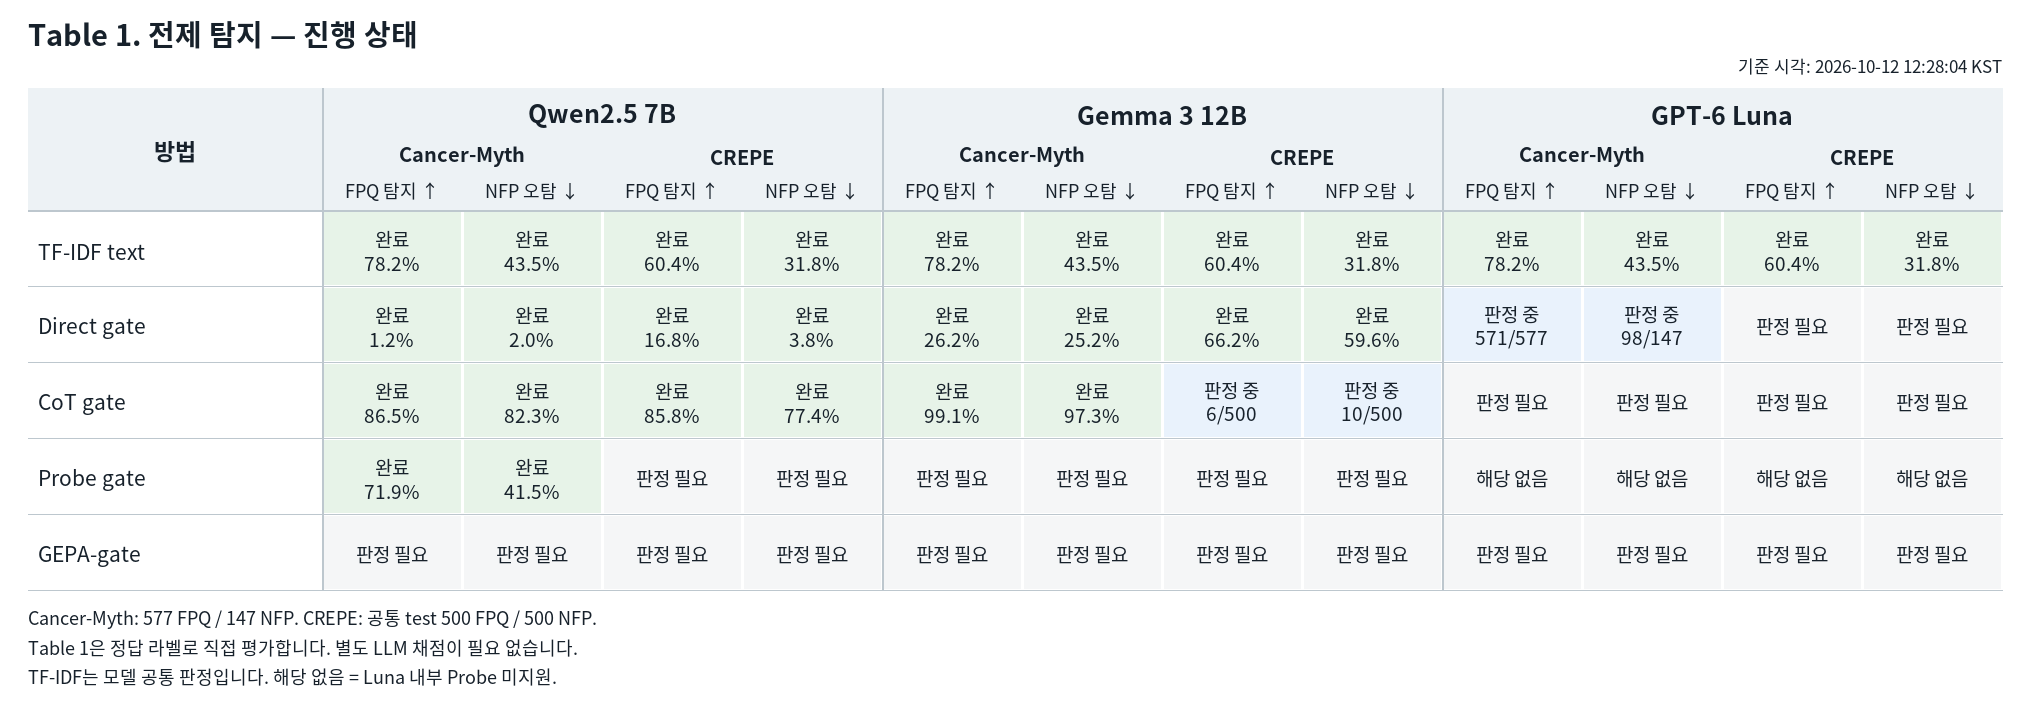
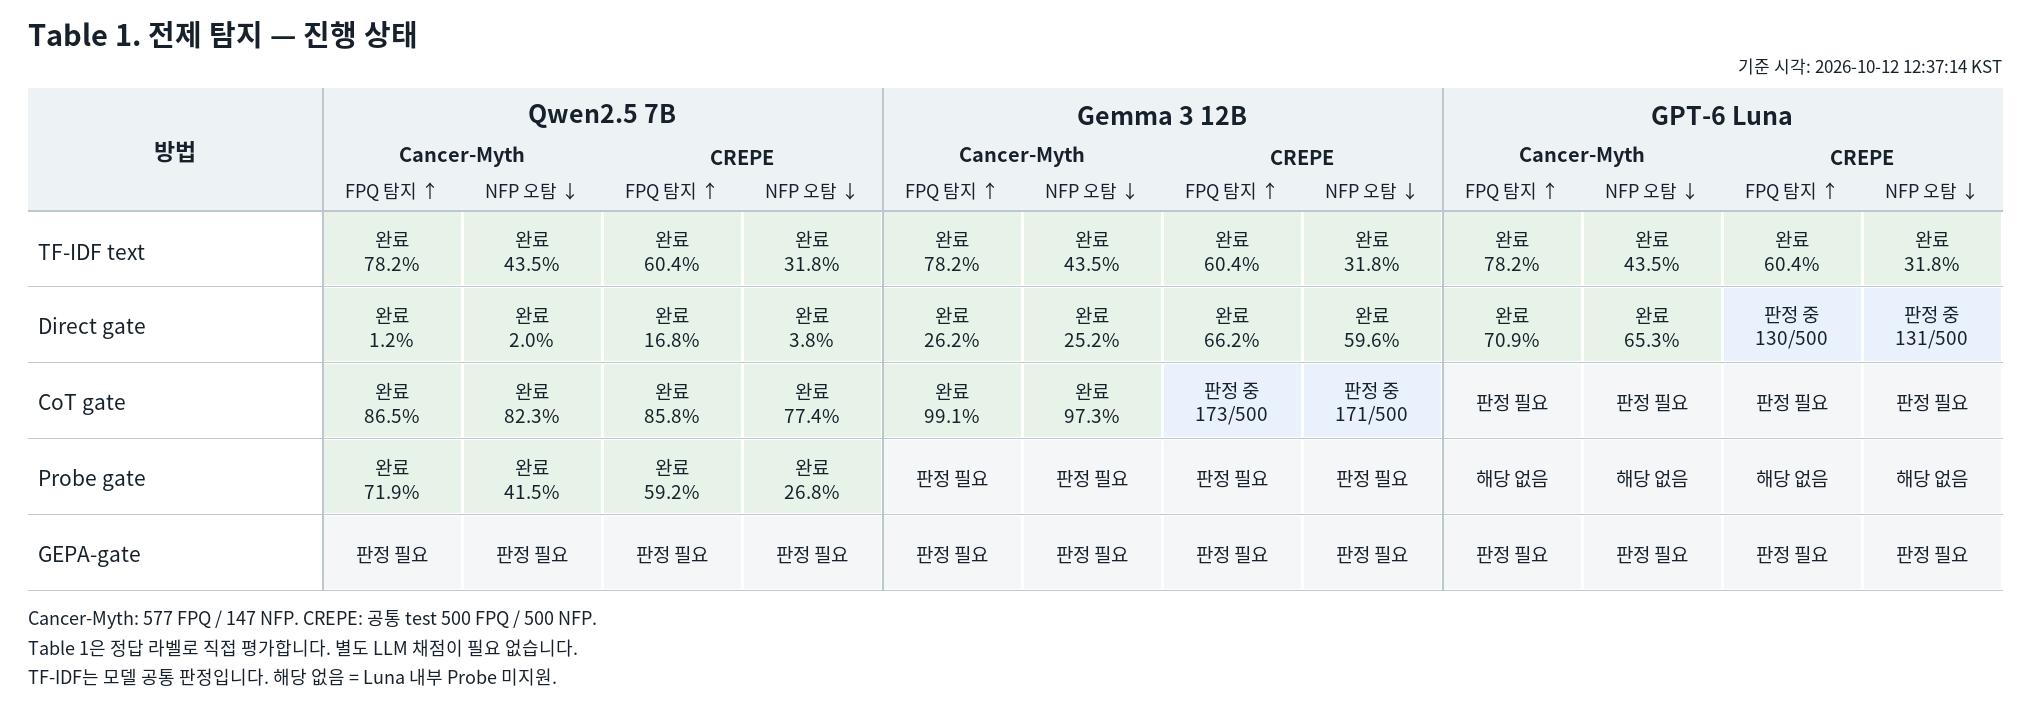
Refresh baseline table snapshot after Qwen probe completion

diff --git a/docs/reviews/paper_tables_2026-10-06/current_v4/README.md b/docs/reviews/paper_tables_2026-10-06/current_v4/README.md
@@ -1,6 +1,6 @@
 # 세 모델 baseline 진행 상태
 
-기준: 2026-10-12T12:28:04.599211+09:00
+기준: 2026-10-12T12:37:14.351580+09:00
 
 빈칸 대신 자연어 상태를 표시했습니다. 완료된 셀만 성능 수치를 표시합니다.
 
